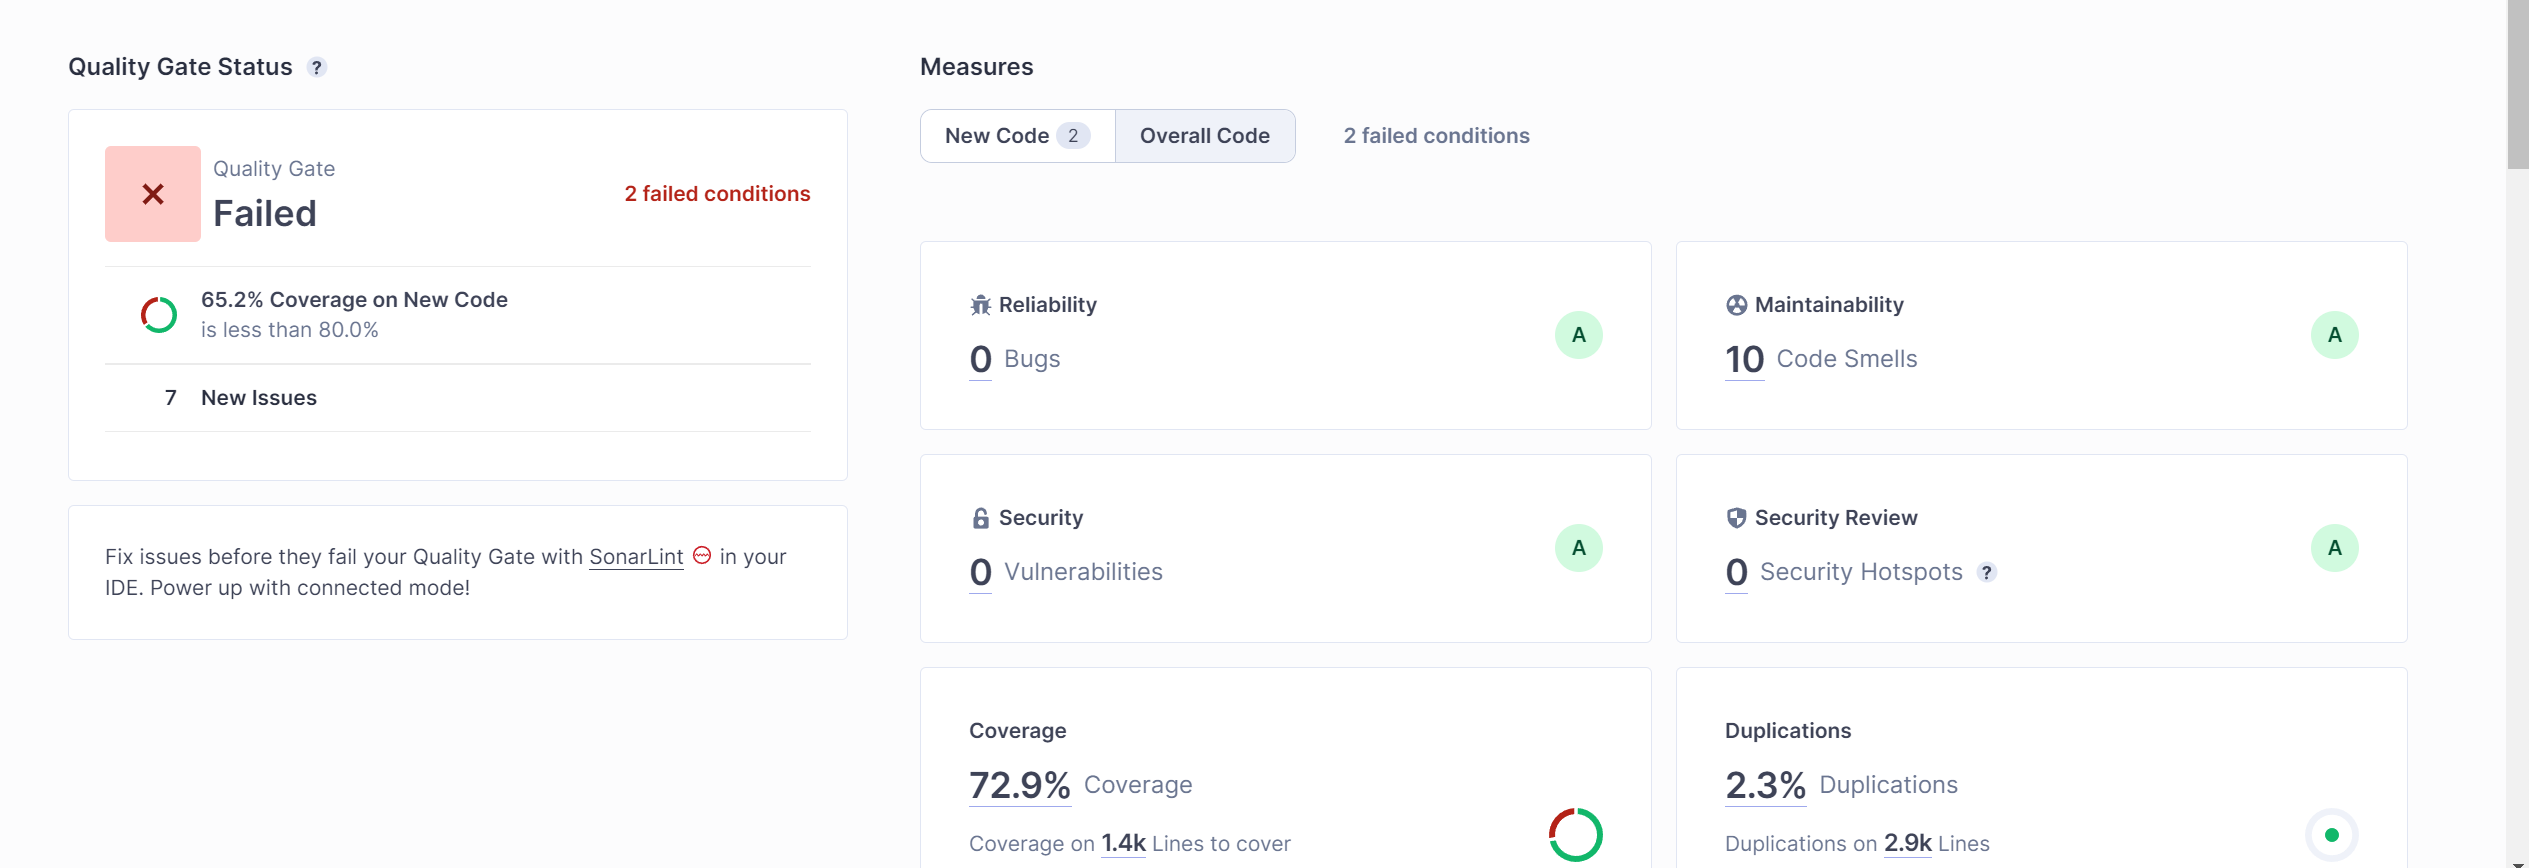
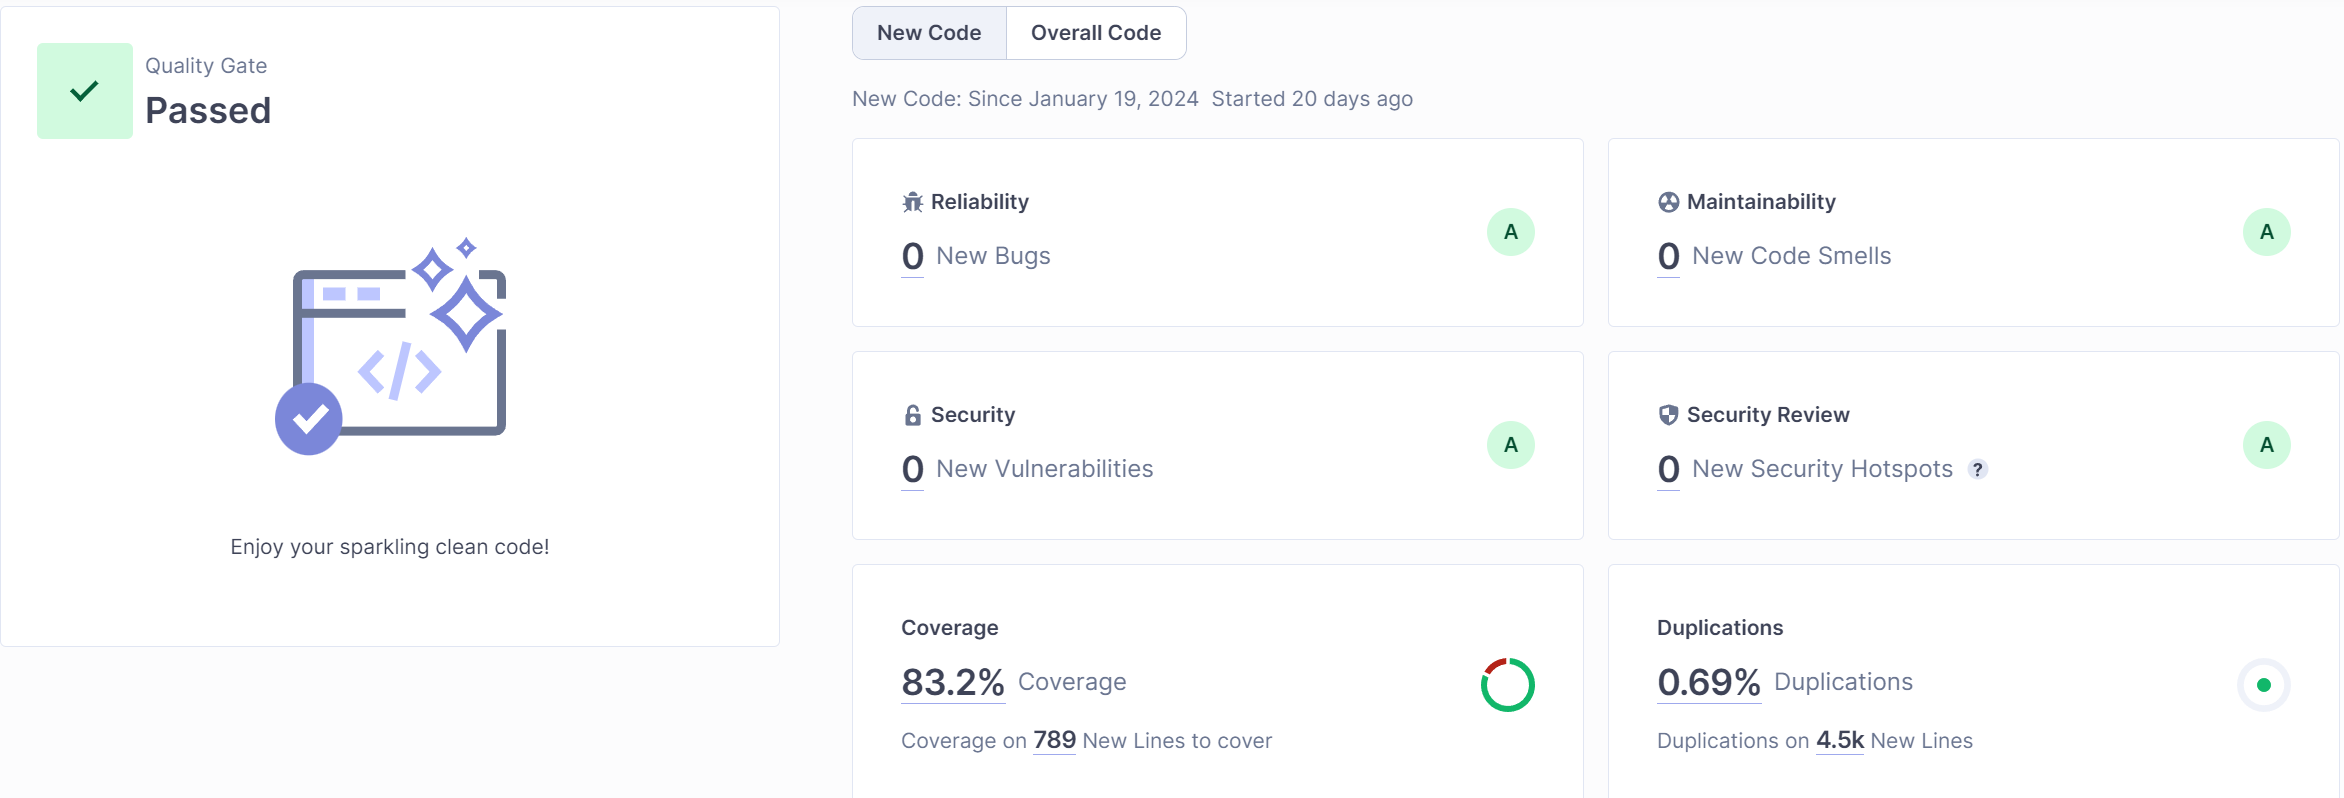
feat: added sonar analysis to rapport. Closes #198

diff --git a/RAPPORT-Q.md b/RAPPORT-Q.md
@@ -139,7 +139,7 @@ Notre architecture est divisée en plusieurs parties :
       pour chaque type de bot ([ThomasPlayer](src/main/java/fr/cotedazur/univ/polytech/citadellesgroupeq/players/ThomasPlayer.java), [MattPlayer](src/main/java/fr/cotedazur/univ/polytech/citadellesgroupeq/players/MattPlayer.java)...).
 * Les stratégies :
     * On a une interface `IStrategy` dont on se sert pour créer des classes stratégies qu’on utilise ensuite dans les bots.
-* La dernière partie de l’architecture est là uniquement pour les calculs de statistiques ([BestScoreCalculator](src/main/java/fr/cotedazur/univ/polytech/citadellesgroupeq/playerevaluator/BestScoreCalculator.java), et les classes de CSV).
+* La dernière partie de l’architecture est là uniquement pour les calculs de statistiques ([BestScoreCalculator](src/main/java/fr/cotedazur/univ/polytech/citadellesgroupeq/playerevaluator/BestScoreCalculator.java), [GameStatsCsv](src/main/java/fr/cotedazur/univ/polytech/citadellesgroupeq/playerevaluator/GameStatsCsv.java), [StatsManager](src/main/java/fr/cotedazur/univ/polytech/citadellesgroupeq/playerevaluator/StatsManager.java)).
 
 #### Le moteur du jeu :
 * Notre classe [GameLogicManager](src/main/java/fr/cotedazur/univ/polytech/citadellesgroupeq/gamelogic/GameLogicManager.java)
@@ -150,7 +150,7 @@ Notre architecture est divisée en plusieurs parties :
 4. Elle arrête la partie lorsqu'un joueur a atteint 8 citadelles.
 * [RoundSummary](src/main/java/fr/cotedazur/univ/polytech/citadellesgroupeq/gamelogic/RoundSummary.java) est une classe qui va stocker et enregistrer tous les événements durant le tour du joueur.
 * Cette classe est utilisée dans la classe [GameOutputManager](src/main/java/fr/cotedazur/univ/polytech/citadellesgroupeq/GameOutputManager.java). Grâce à un `RoundSummary` la méthode [describePlayerRound()](src/main/java/fr/cotedazur/univ/polytech/citadellesgroupeq/GameOutputManager.java#L109) de `GameOutputManager` va pouvoir vérifier les évènements qui se sont déroulés et activer les bons logs.
-  `GameOutputManager` contient d'autre méthode de description comme une description de la cité d'un joueur ou encore la description des roles disponibles au début du tour. La principale methode [startMainOutputLoop()](src/main/java/fr/cotedazur/univ/polytech/citadellesgroupeq/GameOutputManager.java#L33) déroule l'affichage de la partie du début à la fin.
+  `GameOutputManager` contient d'autres méthodes de description comme une description de la cité d'un joueur ou encore la description des roles disponibles au début du tour. La principale methode [startMainOutputLoop()](src/main/java/fr/cotedazur/univ/polytech/citadellesgroupeq/GameOutputManager.java#L33) déroule l'affichage de la partie du début à la fin.
 
 #### Les `District` et les `Role`
 Les `District` sont modélisés dans une classe. Ils possèdent un nom, un prix, une couleur, et optionnellement un nom de pouvoir (si ce sont des merveilles).
@@ -158,7 +158,7 @@ Nos rôles sont stockés dans un `Enum`, et possèdent une couleur ([Color](src/
 
 #### Les `Player` et les `Strategy`
 
-Ce que nous appelons `Player` sont les classes représentant des bots !
+Ce que nous appelons `Player` sont les classes représentant des bots.
 Notre code est structuré ainsi :
 * La classe abstraite mère [Player](src/main/java/fr/cotedazur/univ/polytech/citadellesgroupeq/players/Player.java) définit toutes les méthodes utilitaires attribuées à un bot :
   récupérer ses cartes en main [(getCardsInHand())](src/main/java/fr/cotedazur/univ/polytech/citadellesgroupeq/players/Player.java#L104), connaitre sa fortune [(getCash())](src/main/java/fr/cotedazur/univ/polytech/citadellesgroupeq/players/Player.java#L100), etc...
@@ -196,28 +196,26 @@ Notre code est documenté via une [java doc](javadoc/index.html). Le code est da
 
 ### C. Qualité du code
 #### a. Parties en confiance
-* Nous sommes plutôt en confiance sur notre logique de jeu notamment avec `GameLogicManager` et `RoundSummary`.`Elle fait son travail sans erreurs.
+* Nous sommes plutôt en confiance sur notre logique de jeu notamment avec `GameLogicManager` et `RoundSummary`. Elle fait son travail sans erreur.
 * Les méthodes de `Player` fonctionnent et sont testées.
-* Quant aux `Roles` ils ne peuvent pas contenir d'erreur notamment avec les pouvoirs, car ils contiennent des exceptions en cas d'action impossible.
-* Les `Strategy` sont bien implémentées chaque méthode est bien testée.
+* Quant aux `Roles` ils ne peuvent pas contenir d'erreur notamment avec les pouvoirs, car ils contiennent des exceptions en cas d'action impossible (et nous avons testé l'appel de ces exceptions).
+* Les `Strategy` sont bien implémentées et chaque méthode est bien testée.
 
 #### b. Parties à améliorer
-* La partie sur le `CSV` est encore trop brouillon et il manque beaucoup d'exception.
+* La partie sur le `CSV` est encore trop brouillon et il manque beaucoup d'exceptions. Même si elle est testée, le code pourrait être plus propre et modulaire.
 * À certains endroits du code la complexité pourrait être diminuée, car inutilement haute. (notamment dans des méthodes qui contiennent pas mal de condition avec des _if_ et des _else if_)
 * On peut relever aussi certaines duplications de code.
 * On aurait aussi dû implémenter les stratégies par défaut des `Player` dans des classes `Strategy`, au lieu de les implémenter dans les classes des `Player` afin de les alléger.
-#### c. Analyse de SonnarQube
+#### c. Analyse de SonarQube
 
 <div align="center">
 <img src="assetsrapport/sonar.png" width="700" height=auto>
 </div>
 
-Le **coverage** n'est pas totalement significatif, car certaines parties du code présentent un manque significatif 
-de tests. Les classes **GameOutputManager, Main et StatsManager**, qui ne bénéficient que de **très peu de test**. 
-En revanche, toutes les autres classes affichent un taux de couverture supérieur à **85%**.
+Le **coverage** est plutôt bon, avec 83.2% sur la globalité du projet. Nous n'avons pas de *bugs*, de *code smells*, de *vulnerabilities*, ni
+de *security hotspots*. Nous avons cependant quelques *duplications*.
 
-En résumé, l'analyse SonarQube révèle, un **nombre négligeable de bugs**, un **faible nombre de duplications** et 
-**quelques améliorations potentielles** à apporter au code pour l'améliorer.
+Notez que nous avons passé le ***Quality Gate*** !
 ## Notre processus de développement
 
 ## 3. Notre processus de développement
